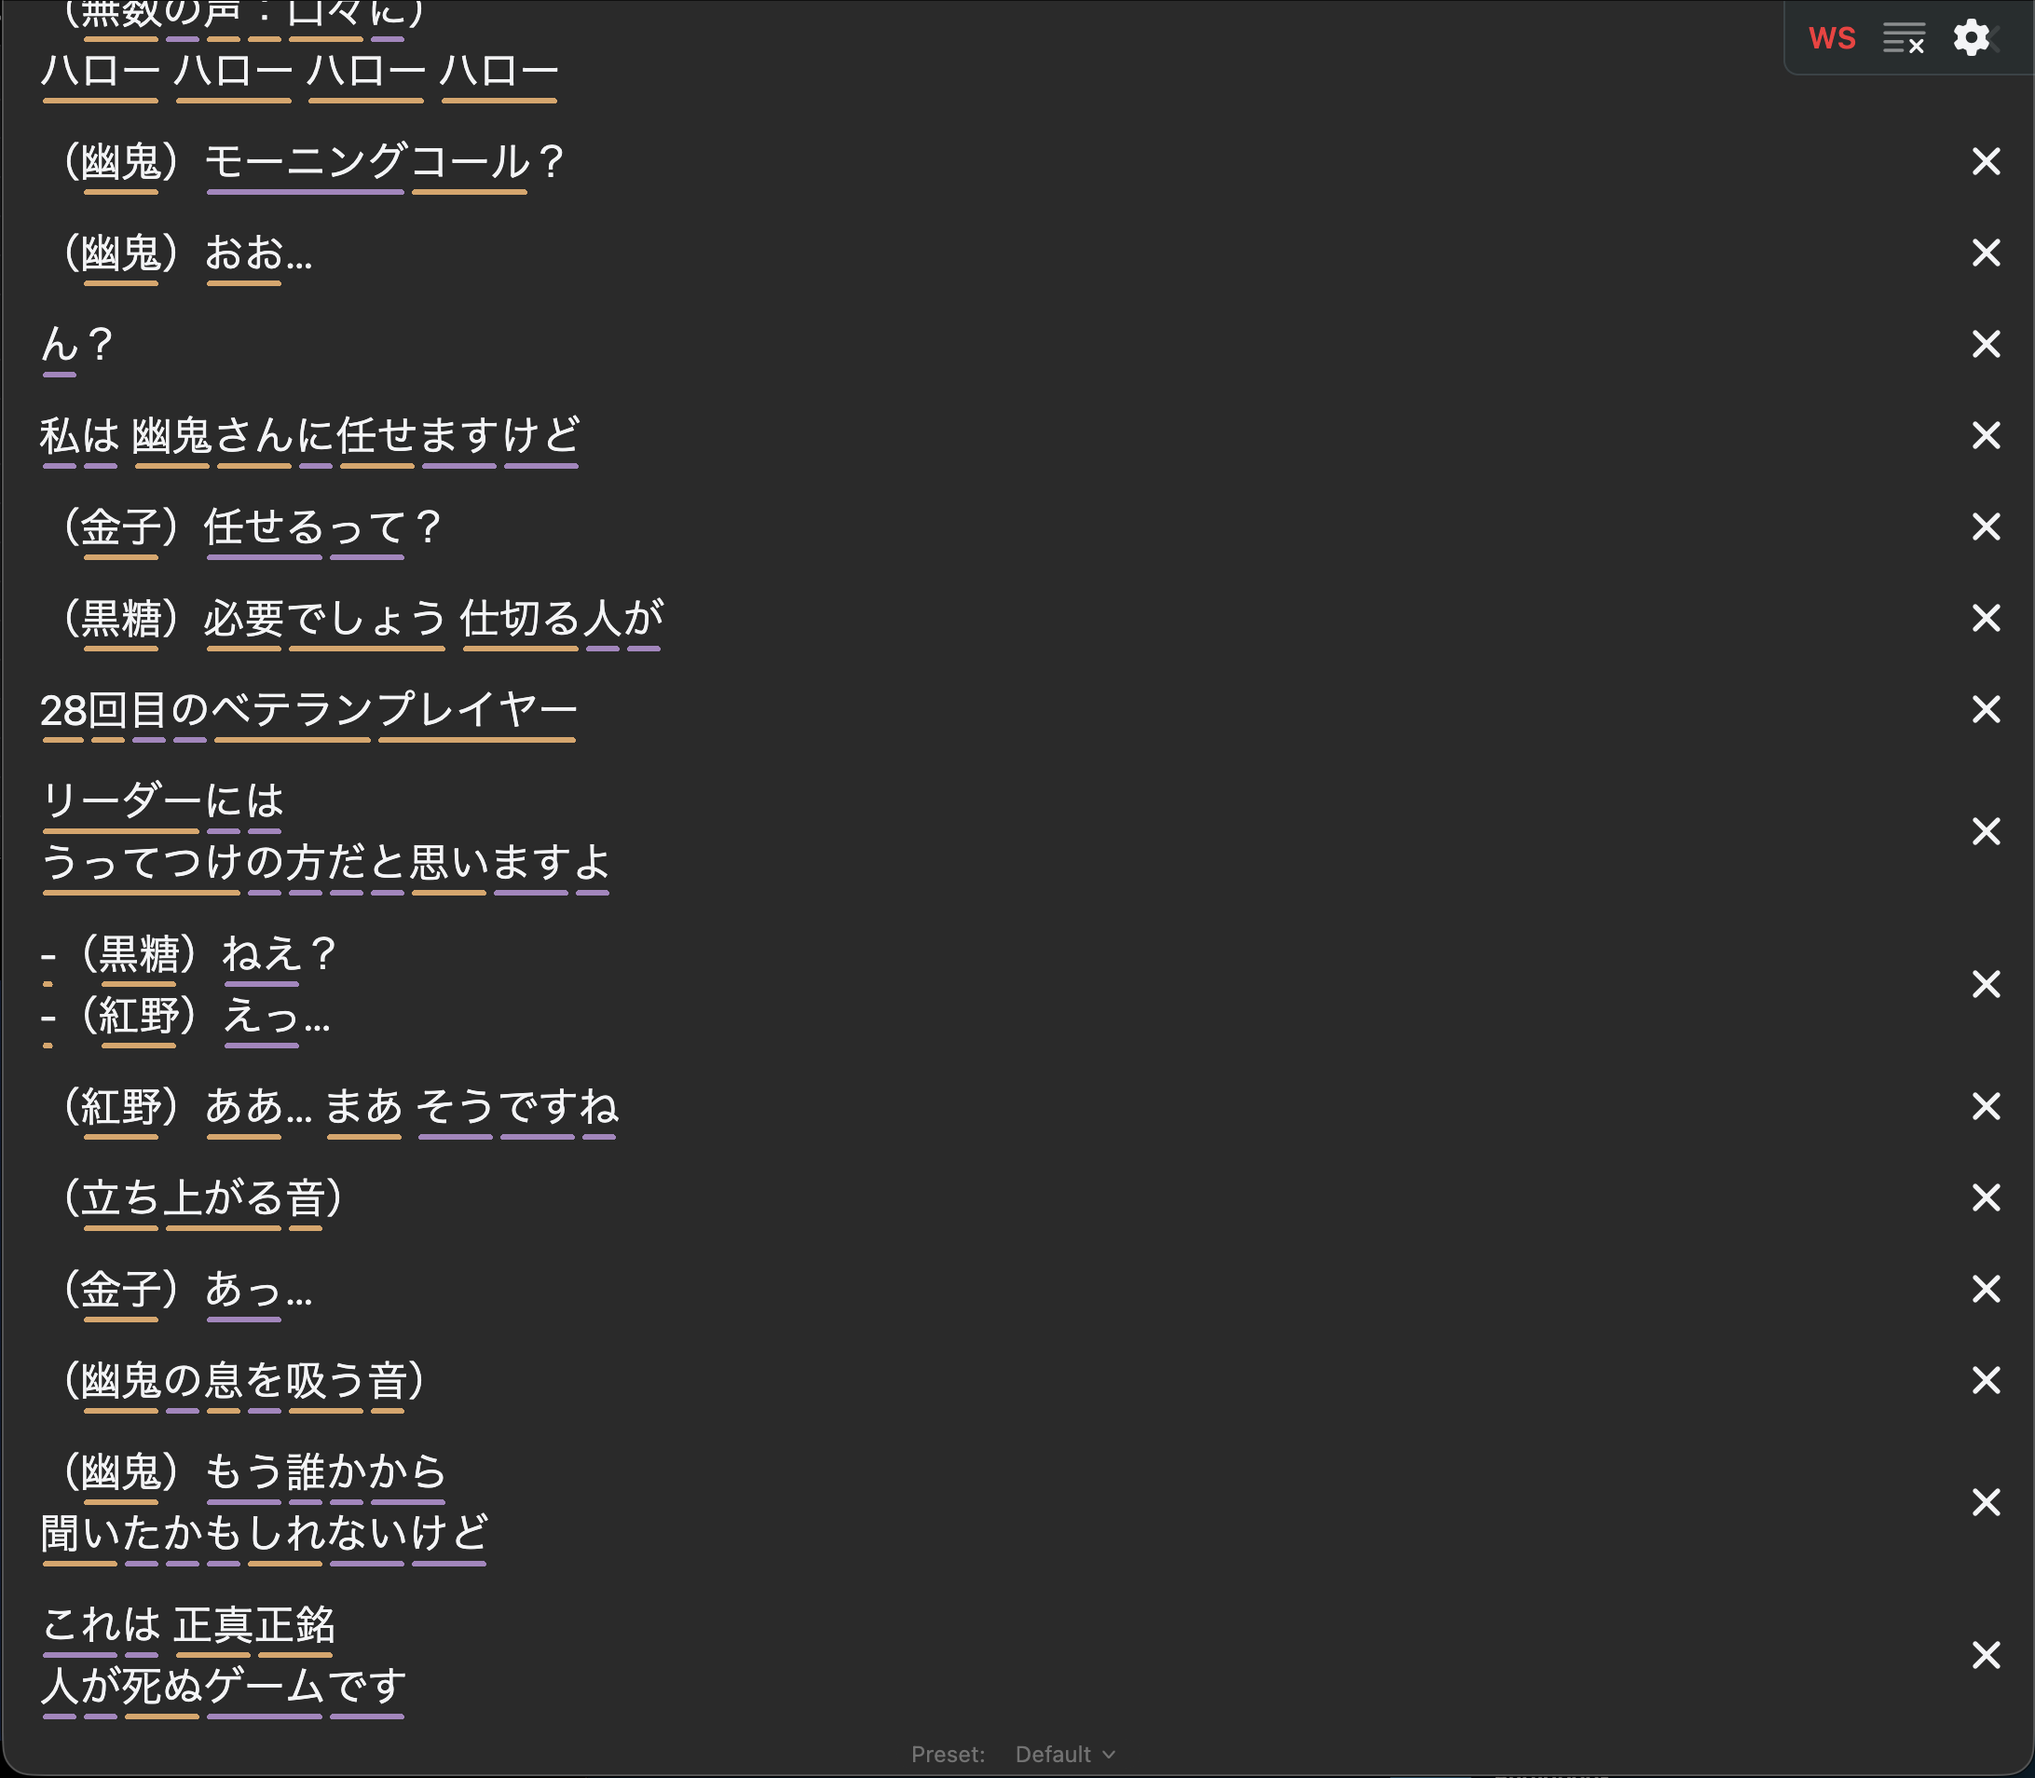
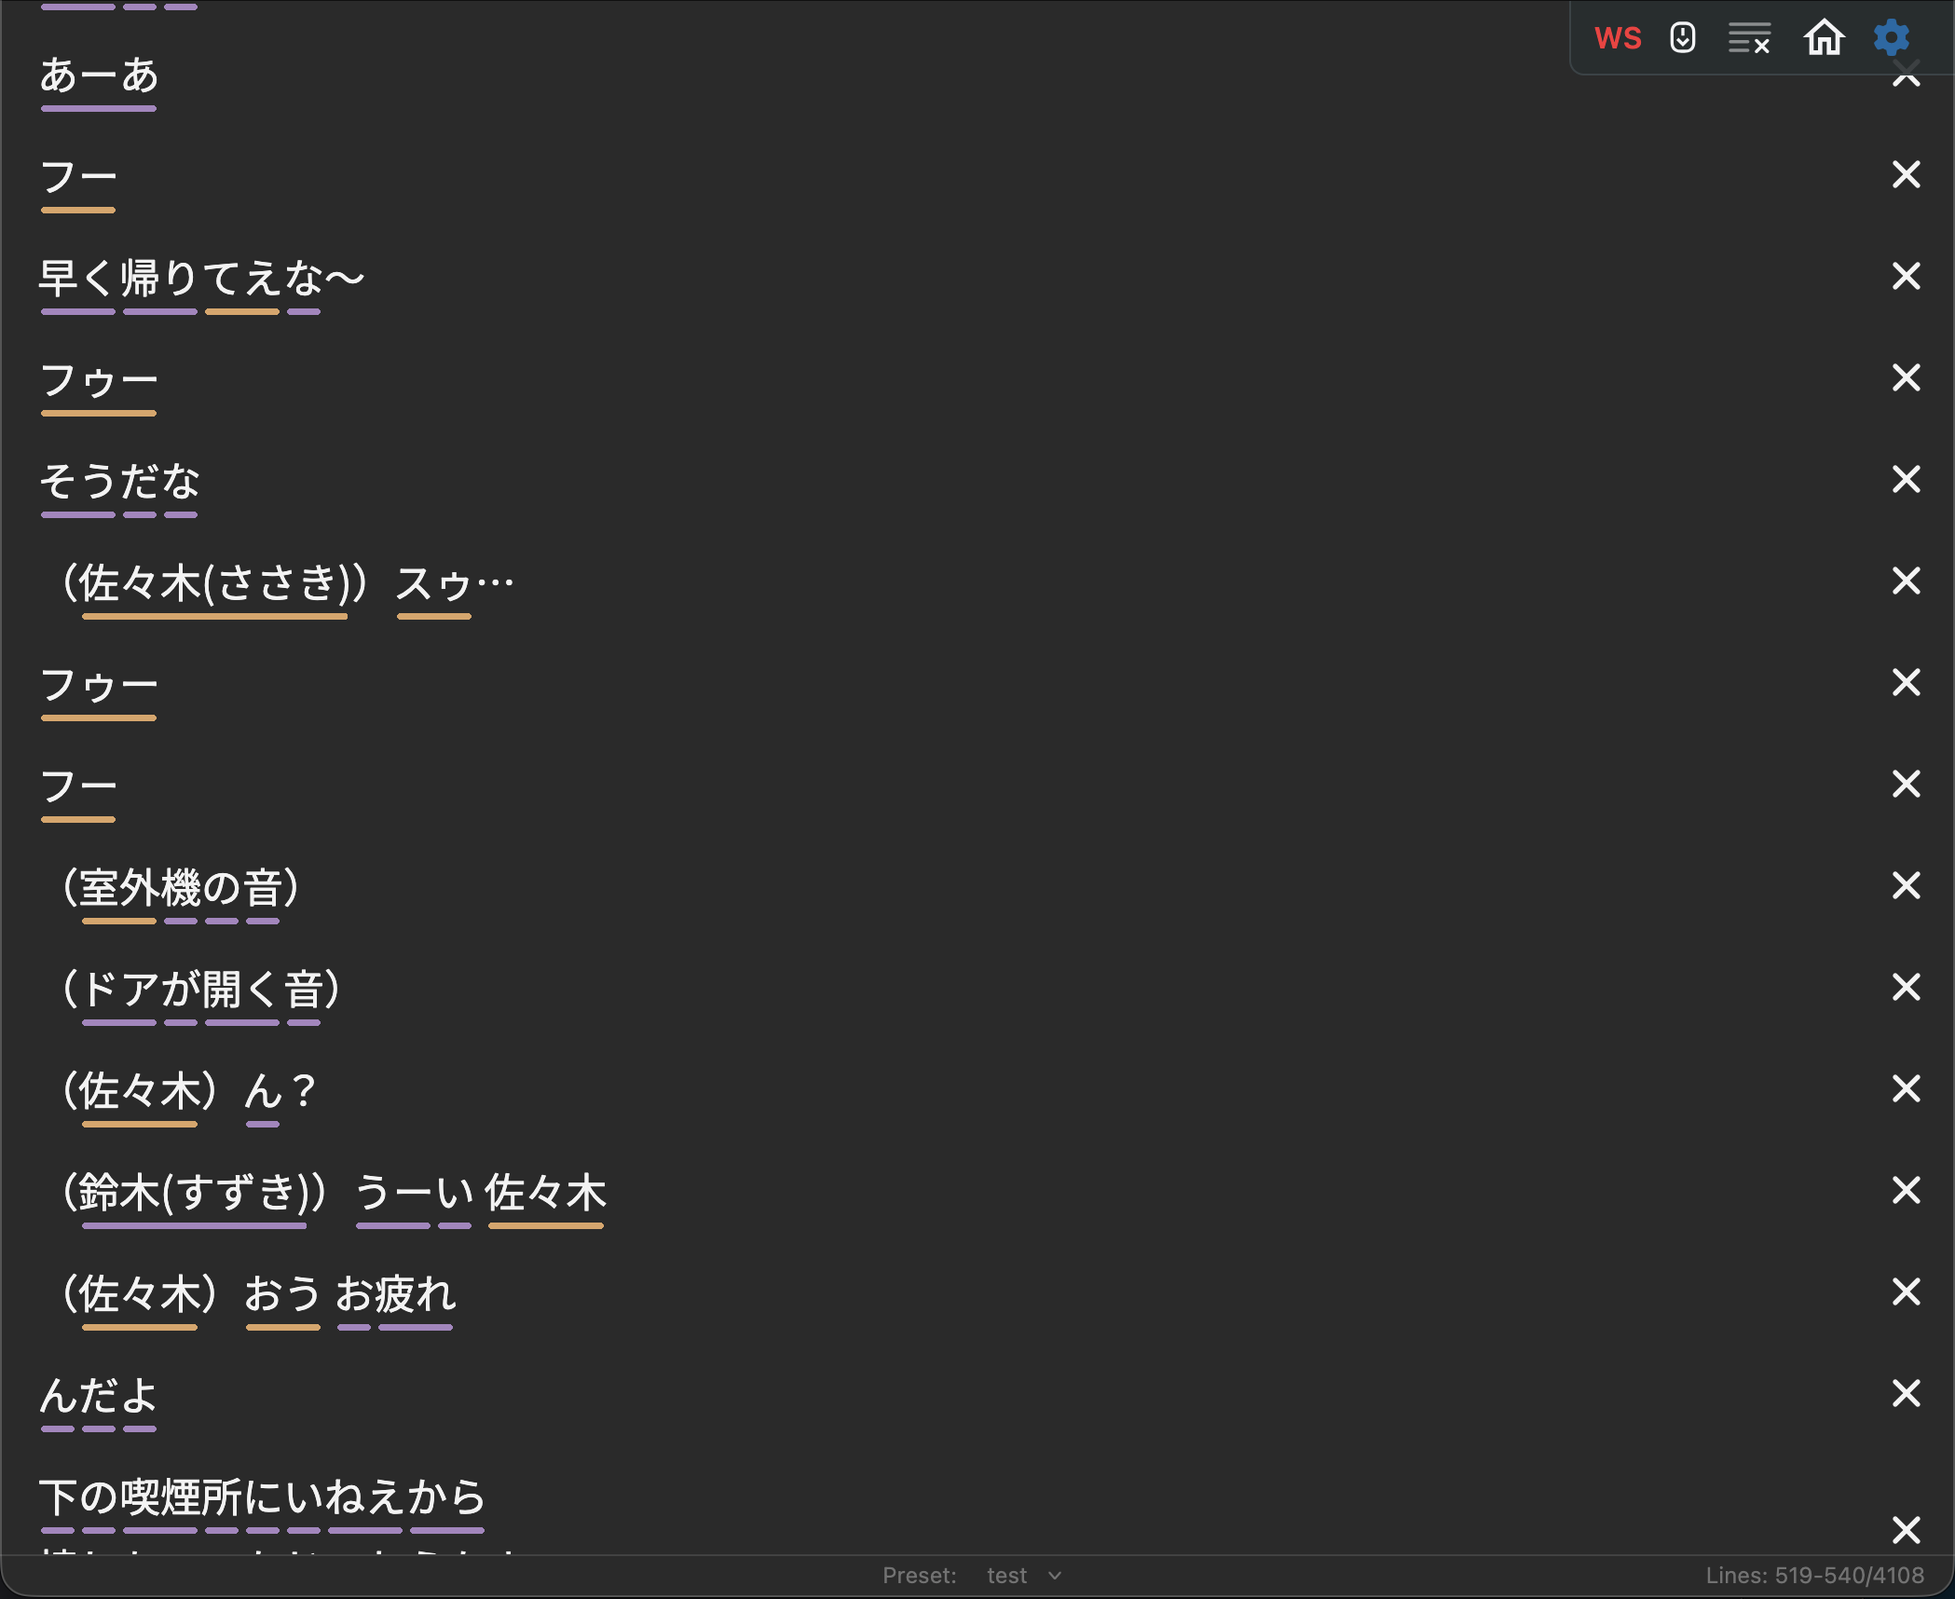
update README and assets

diff --git a/README.md b/README.md
@@ -1,17 +1,9 @@
-# Under Construction
-
 # Jiku
 
-Estimate known vocabulary from Anki decks and apply this data to a texthooker and epub reader (more in the future).
+Estimate known vocabulary from Anki decks and apply this data to a 
+texthooker interface and epub reader (more in the future). Useful to improve mining efficiency
+and to estimate knowledge of the vacabs in each book.
 
-<p float="left">
-  <img src="assets/home.png" width=300>
-  <img src="assets/books_lib.png" width=300>
-  <img src="assets/book_reader.png" width=300>
-  <img src="assets/book_reader.png" width=300>
-  <img src="assets/texthooker_v.png" width=300>
-  <img src="assets/texthooker_h.png" width=300>
-</p>
 
 
 ## Installation
@@ -20,10 +12,114 @@ The recommended installation method is to use the docker-compose file. Running a
 
 1. Install [Docker](https://docs.docker.com/get-started/get-docker/)
 2. Download the `docker-compose.yaml` file from the [releases page](https://github.com/TnTora/Jiku/releases)
-3. Open terminal (or Command Prompt/Powershell) in the folder containing the downloaded file
-4. Run the following command and wait for the installation to complete
+3. Run the following command (substituting `<path-to-yaml-file>` with the actual path to the downloaded file) and wait for the installation to complete
 ```
-docker compose -p jiku up -d
+docker compose -f <path-to-yaml-file> -p jiku up -d
 ```
 
-Once the command finishes you can stop and start the app from  Docker Desktop or Docker CLI.
+Once the command finishes you can stop and start the app from Docker Desktop or Docker CLI.
+
+
+## Update
+In order to update, run the following commands.
+The first one download the latest images. 
+The second recreate the containers.
+The last one remove all dangling images.
+
+```
+docker compose -f <path-to-yaml-file> pull
+docker compose -f <path-to-yaml-file> -p jiku up --force-recreate -d
+docker image prune -f
+```
+
+## Setup
+
+1. Make sure you have [Anki](https://apps.ankiweb.net/) and the [AnkiConnect](https://ankiweb.net/shared/info/2055492159) plugin installed
+2. Config AnkiConnect if the default values do not work
+3. Open the jiku home page (by default `localhost:5173`), make sure `AnkiConnect PORT` matches the plugin setting and click connect
+4. Add the `Morphemes Sources` from which to extract the known words
+
+
+## Usage
+
+Jiku is currently diveded in three main pages: Home, texthooker interface and epub reader.
+The main purpose of this program is to approximate vocabulary knowledge and reflect said knowledge
+in by underlining all text inside the user uploaded content using different colors to separate vocab
+in the following categories:
+
+- Known: already present at least once in Anki and already studied 
+- Unknown: present in Anki but never studied
+- Not Found: not found in your Anki profile. Possibly worthy of being mined
+
+
+### Home
+
+<img src="assets/home.png" width=300>
+
+The home page offers a counter of known Lemmas and Inflections in the top bar.
+
+- **Lemmas** are unique and represent the root form of a specific part of speech (best approximation of known vocabulary)
+- **Inflection** represents the various forms (for example conjugations) of a part of speech 
+
+The `Sync` button will update the known lemmas and inflections to match your Anki profile based on the rules provided in the table under `Morphemes Sources`.
+Before pressing this button make sure Anki is open and AnkiConnect is installed and properly
+configured. `AnkiConnect PORT` must match the one specified in the AnkiConnect config.
+
+
+Under the top bar, the last opened books are shown as well as a list of your presets for the
+texthooker interface. You can manage presets from this page by clicking on `Add preset` to create
+a new one or clicking the `X` on the right to delete an existing one.
+
+### Tecthooker Page
+
+<p float="left">
+  <img src="assets/texthooker_h.png" width=300>
+  <img src="assets/texthooker_v.png" width=300>
+</p>
+
+As of right now, the texthooker interface only supports webscocket connections.
+Clipboard monitoring is being considered.
+
+Configure the websocket url in the option panel (the gear icon) and your preferred styling,
+then click the `WS` button to connect to the websocket server you specified.
+Click again to disconnect.
+
+<img src="assets/texthooker_options.png" width=300>
+
+When you are close to the last line and a new one is added the page will automatically
+scroll to the new line.
+
+The texthooker interface is available as a standalone [here]() (without the vocab underlining for now).
+
+### Epub Reader
+
+<p float="left">
+  <img src="assets/books_lib.png" width=300>
+  <img src="assets/book_reader.png" width=300>
+</p>
+
+Click the icon on the top right to upload your books. Currently `epub` is the only
+format supported.
+
+Once you have populated your library, you can filter books based on the following properties:
+
+- `Title`
+- `Status`: New, Reading, Completed, All
+
+Inside the sidebar (top left icon), you can select a specific author or create and 
+delete custom collections.
+
+Once filtered, you can order the results based on: `Title`, `Last Added` or `Last Opened`
+
+To get an insight of how much vocab you know for a specific book, click the tree dots
+at the bottom right of the cover and select `Show Stats`.
+
+<img src="assets/book_stats.png" width=300>
+
+Planned: get list of known and unknown lemmas ordered by frequency.
+
+## Stack
+
+- Backend: FastAPI, Celery
+- Database: postgresql (main), redis (used by Celery)
+- Frontend: SvelteKit (+ tailwind css)
